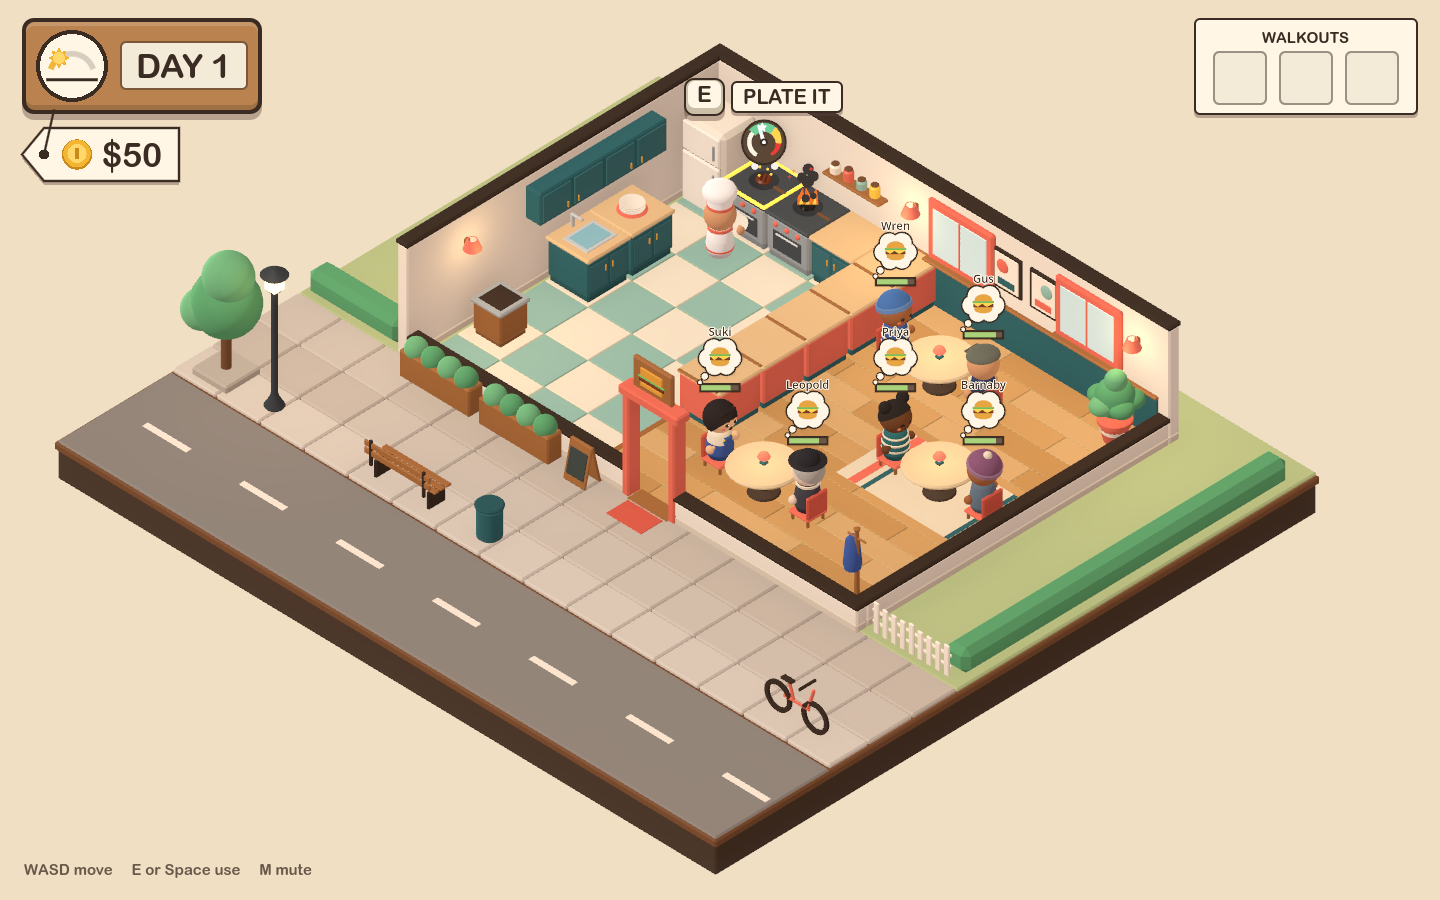
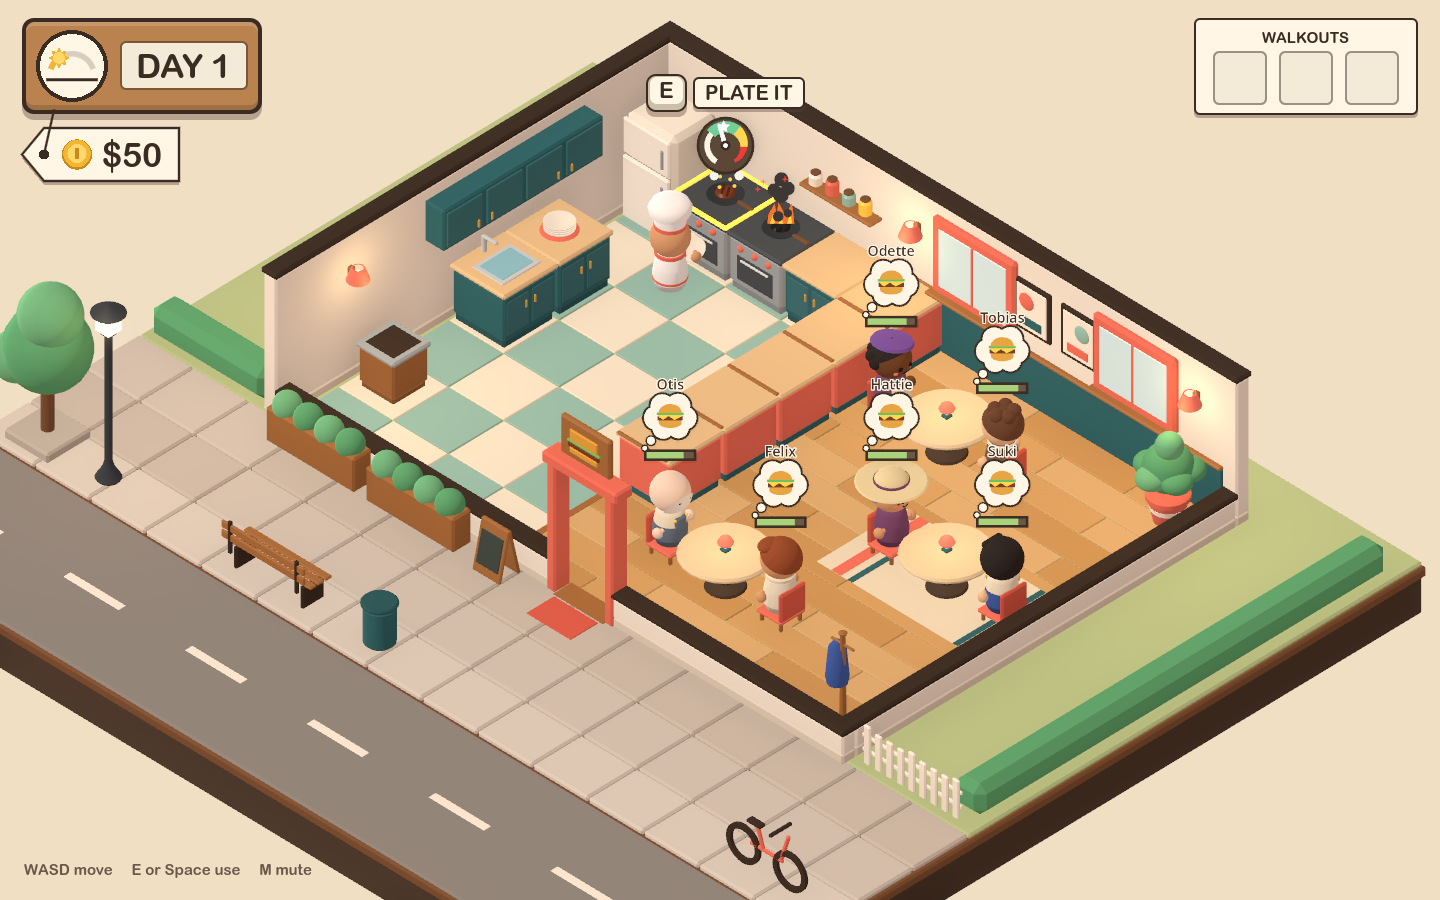
Chef turns to face movement and aims at the station in front; service zoom; calmer evening; fx demo

diff --git a/docs/STYLE_GUIDE.md b/docs/STYLE_GUIDE.md
@@ -80,6 +80,7 @@ all, and why. Screenshots: see `CLAUDE.md` for the `REGULARS_SHOT` and `REGULARS
 | Felix and Nell | Looks invented from the kit (auburn side-sweep and cream collar; top-knot and periwinkle dungarees). | Never drawn. |
 | Stove | Steel body, one large burner with the frying pan always on it. | One cooking slot per stove; a pan over four small burners looked wrong. Steel keeps it distinct from the teal counters. |
 | Patty looks | "Nearly there" and "dry" are looks only. The game still has three item kinds (raw, cooked, burnt) and the same timings. | No gameplay change. |
+| Controls | The chef turns to face the way it moves (eight ways), and uses whichever neighbouring station is most in front, preferring one with something to do. | One key moves diagonally across the grid from this camera, so the chef almost never faced a station squarely. |
 | Dial | Shown while a patty cooks; hidden once it burns (flames take over). | The burnt state needs no gauge. |
 | Fridge | Shut, and swings open on use to show the meat. | The "open" state has nothing else to hang on. |
 | Station states | Not built: sink full of suds, overflowing bin. Washing plays the bubble effect. | No gameplay behind them yet. |
@@ -88,7 +89,7 @@ all, and why. Screenshots: see `CLAUDE.md` for the `REGULARS_SHOT` and `REGULARS
 | Kitchen dressing | Wall cabinets on the left wall, jar shelf by the stoves, no range hood. | Nothing may hide a stove or its dial. |
 | Lighting | Sconces on the far walls, a mushroom lamp on each table, a street lamp. No floor lamp. All come up as the sun goes down. | Every corner in the room is walkable. |
 | Shopfront | The hanging burger sign sits on the coral door frame. No awning or upper wall. | Those only show in title and photo views, which do not exist yet. |
-| Camera | Same angles; the view is a little wider (size 14.5, was 13.5) and centred nearer the street. Characters are about 66 px tall. | So the whole slab and its edge are in frame. |
+| Camera | Same angles. Between days the view is wide (size 14.5, was 13.5) so the whole slab and its edge are in frame; during service it moves in on the room and queue (size 11.5, characters about 84 px tall). | The diorama reads best wide; play reads best close. |
 | Palette | Brief values nudged toward sheet 7; the dining floor is less saturated than either. | Under warm light the sampled orange glowed. |
 | Font | A rounded system font (Arial Rounded where present). | No licensed hand-lettered face chosen yet. |
 | Themes | Chosen with `REGULARS_THEME=seaside`. Seaside swaps walls (clapboard), windows (portholes), wall art (life ring and paddle), floors, lawn (sand), pavement (boardwalk with rope bollards) and road (sea with foam). Stations are untouched. | Sheet 16. No picker yet because the title screen is open. |

diff --git a/CLAUDE.md b/CLAUDE.md
@@ -11,9 +11,9 @@ as many days as possible. Working title. The current build is a vertical slice.
 /Applications/Godot.app/Contents/MacOS/Godot --headless -s addons/gut/gut_cmdln.gd   # tests (GUT 9.7.1)
 ```
 
-All 35 tests should pass before and after any change. Screenshots for checking visuals:
+All 36 tests should pass before and after any change. Screenshots for checking visuals:
 `REGULARS_SHOT=/abs/path.png REGULARS_SHOT_AT=13.5 REGULARS_DEMO=cook godot --path .`
-(`REGULARS_DEMO` is `cook`, `summary`, `closed` or `lineup`; see `_apply_demo` in `game/main.gd`.
+(`REGULARS_DEMO` is `cook`, `summary`, `closed`, `lineup` or `fx`; see `_apply_demo` in `game/main.gd`.
 Add `REGULARS_THEME=seaside` for the second theme.) Run `--headless --import` once after
 adding a script with a new `class_name`.
 
